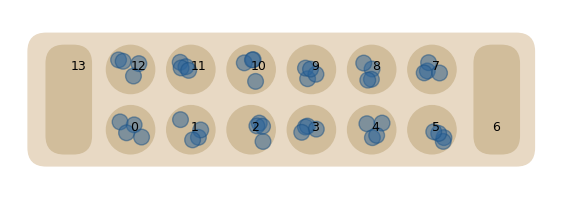
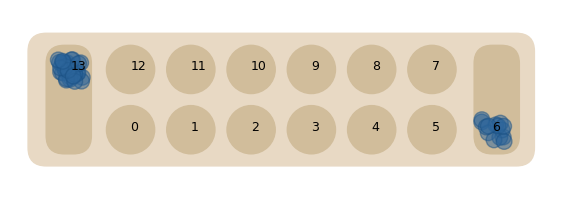
Cleaned up, added print, found a bug, now the game goes to completion

diff --git a/problems.py b/problems.py
@@ -8,6 +8,9 @@ import matplotlib.pyplot as plt
 from matplotlib.patches import Circle, FancyBboxPatch
 import random
 
+#TODO: implement a self.current_player for repeat turns. 
+#GetSuccessor should return a tuple with a extra_turn bool
+#Need to update TicTacToe to match I think so the same agent can run both. 
 class Game:
     def __init__(self, problem, pZero, pOne,verbose=True):
       self.problem = problem      
@@ -163,8 +166,9 @@ class Mancala:
             if current_pit != 6:
                state[current_pit] += 1
                marb_count -= 1
+
+   #Reset to the other side of the array (go round the board)
          if current_pit == 13:
-            #Reset to the other side of the array (go round the board)
             current_pit = -1
 
       #For each player, check and see if they landed in an empty pit on their own side (marb count now = 1), get to steal
@@ -189,12 +193,7 @@ class Mancala:
          else:
             state[13] += marbs_stolen + 1
 
-      #Any other rules I need to add here?
-
-      #TODO: Get a successor state after the given move is made
-      #Don't actually apply the move, just plan a hypothetical action
-
-      return state
+      return state #TODO ALSO EXTRA MOVE
 
    def doMove(self, move):
       #Apply the move the the board, update the move counter, update which player's turn it is
@@ -214,6 +213,7 @@ class Mancala:
       #Val is set in the evalterminal function based on the who cleared their side
       if val != 0:
          terminal = True
+      print(terminal)
       return terminal
 
    def evalTerminal(self, state=None):
@@ -221,7 +221,7 @@ class Mancala:
          state = self.state
       val = 0
 
-      #Who won the game? Do val 1 for player 0, -1 for player 1. Keep 0 for tie
+      #First, clear board entirely if one player cleared their side
       if sum(state[0:6]) == 0:
          #Player 0 cleared first, player 1 gets whatever is left on their own side
          state[13] += sum(state[7:13])
@@ -230,6 +230,9 @@ class Mancala:
          #Player 1 cleared first, player 0 gets whatever is left on their own side
          state[6] += sum(state[0:6])
          state[0:6] = 0
+      else: return val
+
+      #Now, if both sides are cleared, check the winner. val = 1 for player 0 win, -1 for player 1, 0 for tie
       if state[6] > state[13]:
          val = 1
       elif state[13] > state[6]:
@@ -242,14 +245,17 @@ class Mancala:
       val = self.evalTerminal(state)
       #Change the win values to indicate which player # won. -1 is a tie. 
       if val==1:
+         print("Player 0 won")
          return 0 
       elif val==-1:
+         print("Player 1 won")
          return 1
       else:
+         print("Tie")
          return -1
 
    #TODO need to implement cv2
-   def showState(self):
+   def showState(self, ms = 1000, state=None):
       random.seed(27)
       fig, ax = plt.subplots(figsize = (7,3))
       ax.set_xlim(-2, 7)
@@ -291,7 +297,7 @@ class Mancala:
          ax.annotate(str(pit_num), [horz_spot, vert_spot], fontsize = 9)
       plt.savefig("test_board.png", bbox_inches = 'tight')
       plt.show(block = False)  
-      plt.pause(3)
+      plt.pause(ms/1000)
       plt.close()
       
 

diff --git a/demo.py b/demo.py
@@ -19,5 +19,5 @@ algorithm and one player uses another. If your problem is snake, you might show 
 #demoGame.playGame()
 
 #Temporary testing visualization
-demoMancala = prb.Game(prb.Mancala(), 1, 2)
-demoMancala.problem.showState()
+demoMancala = prb.Game(prb.Mancala(), alg.RandomAgent(),alg.RandomAgent())
+demoMancala.playGame()
